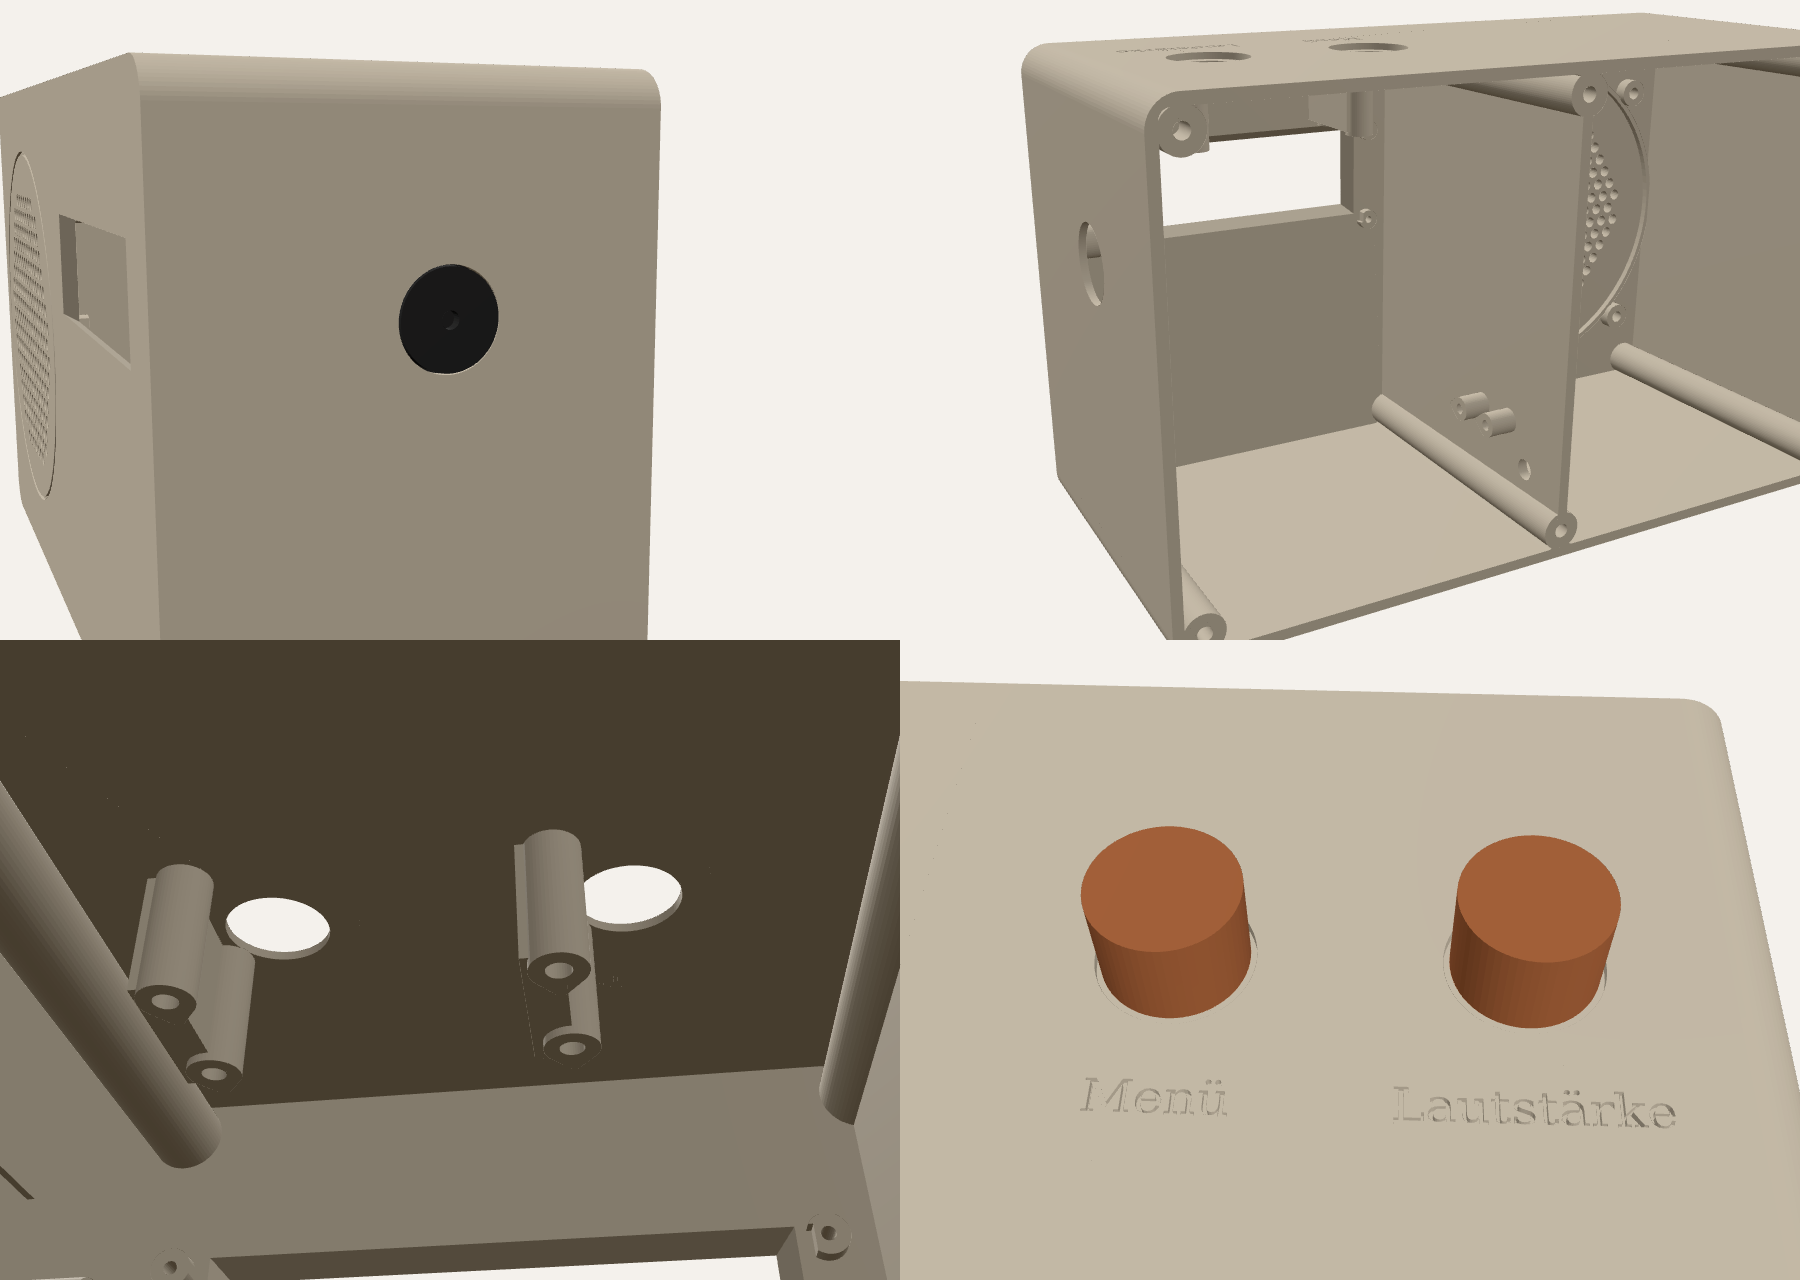
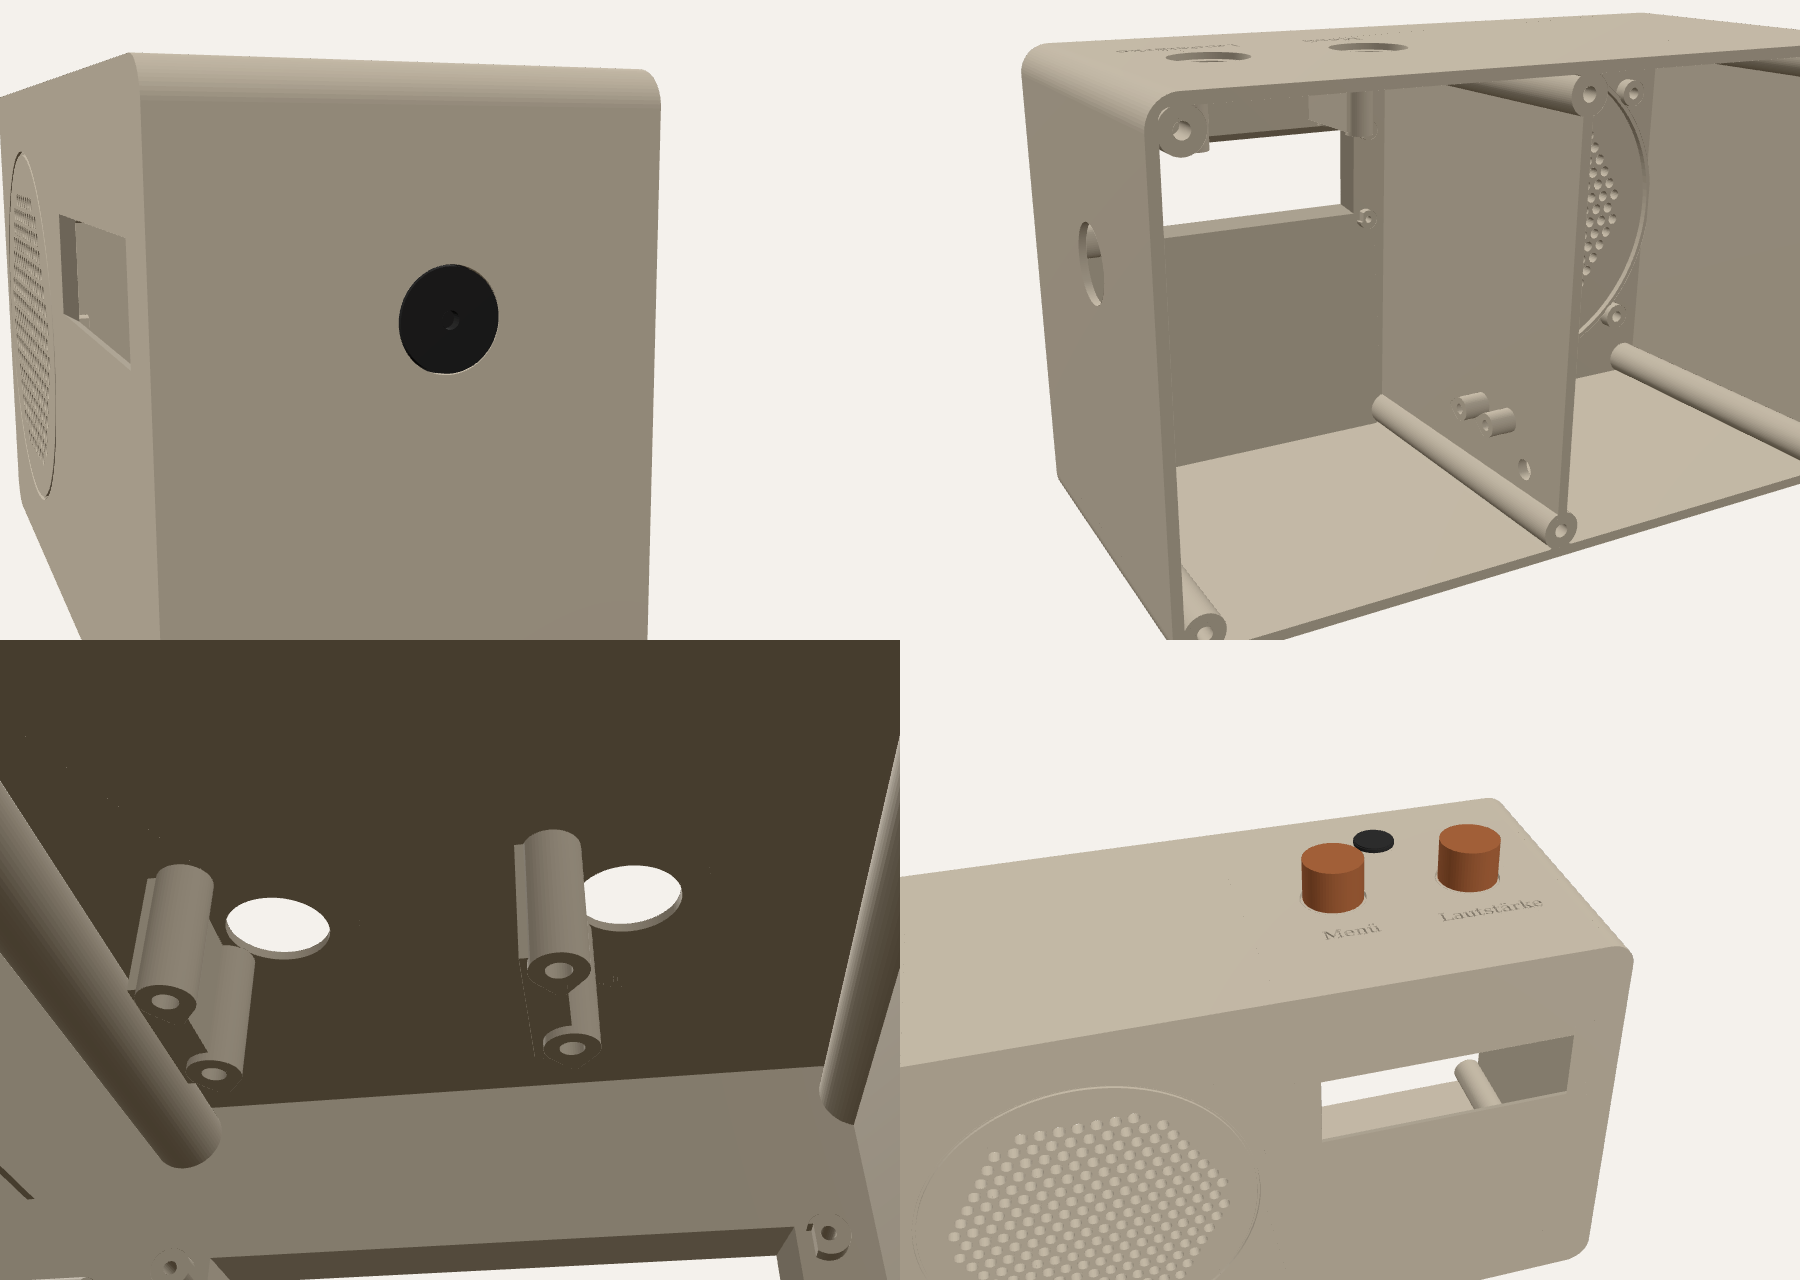
Chapter Pro: Loch für 12-mm-Einschaltknopf oben
Claude-Session: https://claude.ai/code/session_01MRJeBfH7cTjqDF2ZihC3RN

Changed region(s): [[0.4978, 0.5312, 1.0, 1.0]]

diff --git a/hardware/case/pro/make_chapter_pro.py b/hardware/case/pro/make_chapter_pro.py
@@ -108,6 +108,12 @@ JACK_CLAMP_RIM_H = 7.0                        # clamp rim reaches from the pad t
 AMP_DOMES = ((63.4, 32.0), (76.6, 32.0))      # (y, z)
 AMP_DOME_R, AMP_DOME_LEN = 3.5, 8.0
 
+# Power button (12 mm flat stainless push button, nut from the inside) on the top, centred
+# between and behind the knobs - clear of the encoder boards, the Pi's audio plug and the
+# headphone socket. Wired in parallel to the PiSugar's power button.
+BUTTON = (167.0, 80.0)                        # (x, y) on the top
+BUTTON_HOLE_R = 6.1                           # 12.2 mm for an M12 thread
+
 NAME_TEXT = "Franz Pro"                       # engraved on the bottom
 NAME_CAP = 5.0
 SEG = 64
@@ -279,6 +285,9 @@ def build_body() -> mf.Manifold:
     for x in (20.0, W - 20.0):
         for y in (15.0, BODY_D - 12.0):
             body -= cyl_z(x, y, -1, 1.0, 5.5)
+
+    # power button on the top
+    body -= cyl_z(BUTTON[0], BUTTON[1], H - WALL - 1, H + 1, BUTTON_HOLE_R, 96)
 
     # amplifier domes on the divider (teardrops pointing -y: the divider prints upright, +y up)
     divider_face = RIGHT_CAV[0]

diff --git a/hardware/case/pro/README.md b/hardware/case/pro/README.md
@@ -14,6 +14,7 @@
 - MAX98357A
 - 2 × KY-040 oben, beschriftet mit „Menü“ und „Lautstärke“, befestigt wie im Original-Chapter (zwei Dome mit M2,5-Einsätzen je Drehgeber, Knopf in einer 21-mm-Mulde)
 - 3,5-mm-Kopfhörerbuchse (YACSEJAO D-Typ-Einbaukabel, 18 cm) an der rechten Seite auf halber Höhe, **von innen** montiert: außen sieht man nur die runde schwarze Front (Loch Ø 20,6 mm), keine Schrauben. Das Kabel steckt in der Klinkenbuchse des Pi 3 A+
+- Einschaltknopf oben, mittig hinter den Drehknöpfen (Loch Ø 12,2 mm für einen flachen 12-mm-Edelstahltaster)
 - „Franz Pro“ ist klein auf der Unterseite eingraviert
 
 ## Teile
@@ -48,6 +49,7 @@
 - **Moosgummi-Dichtband** (ca. 3 × 2 mm) auf die hintere Kante der Lautsprecherkammer
 - etwas **Dämmwolle** oder Polyesterwatte für die Kammer
 - **4 Gummifüße** Ø 10 mm, für die Mulden im Boden
+- **Drucktaster 12 mm**, Edelstahl, flacher Kopf, Schließer (optional mit LED-Ring) – parallel an die Taste des PiSugar gelötet
 - **2 × M3×12** für den Kopfhörerhalter (die mitgelieferten Schrauben und Muttern der Buchse werden nicht gebraucht)
 
 ## Montage
